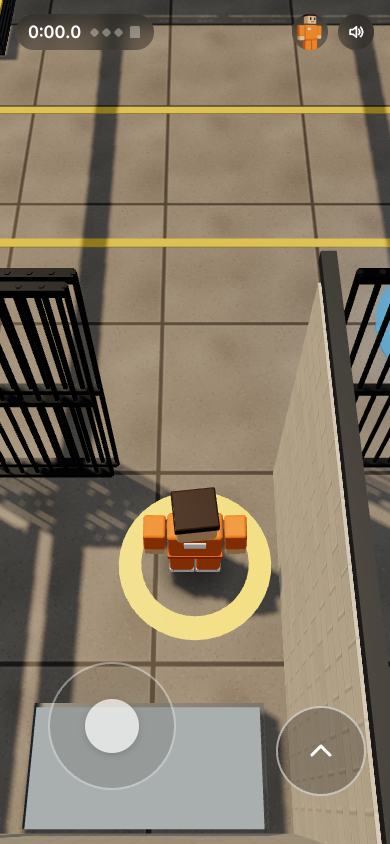
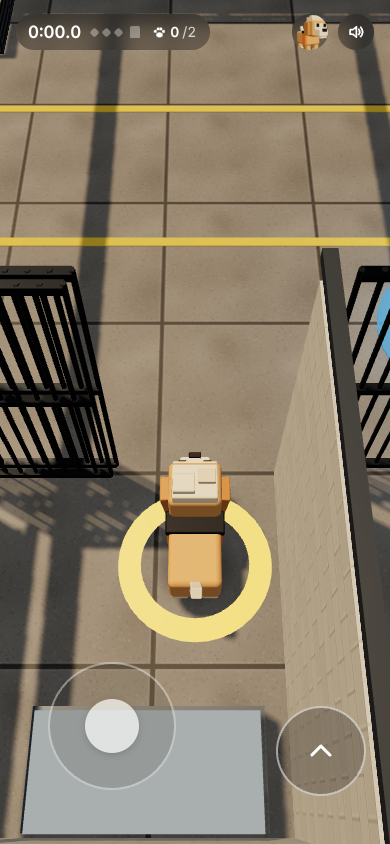
Escape 3D WIP: 7차 기록(CREDITS·PLAYBOOK·plans), 로봇 중간 스크린샷
Claude-Session: https://claude.ai/code/session_01GVpU8hg1nF2k9MWT42USP7

diff --git a/PLAYBOOK.md b/PLAYBOOK.md
@@ -74,6 +74,7 @@
 - **디자인 스킬**: 리포에 `.claude/skills/frontend-design/`(Anthropic `anthropics/skills`, Apache-2.0) 설치됨 — 새 화면을 그리기 전에 Skill 도구로 `frontend-design` 을 불러 "기본값 티" 점검(크림+테라코타, 카드 더미, 올캡 라벨, 섹션마다 페이드인 등). 갱신은 `.claude/skills/frontend-design/SOURCE.md`.
 
 ## 6. 시행착오 기록 (최신이 위, 개발 세션이 추가)
+- **2026-11-21 Escape 3D — 장치를 다 넣어도 '왜'가 없으면 "스토리가 별로, 허술"이 온다(Popcorn 11-02 와 같은 교훈을 3D 에서 반복).** 간수·버튼·문까지 레퍼런스대로 넣은 6차에 대한 반응이 그것. 고친 방식: ① 전제를 주인공이 **원하는 것**으로(잡혀 온 강아지 → 집에 가고 싶다) ② 첫 장면에 **목표를 사람으로** 보여 줌(문밖에서 전단 든 주인) ③ 기존 장치에 이유를 붙임(버튼 = 친구 케이지 열기, 간수 = 잠자리채 포획꾼) ④ 끝 장면은 전용 카메라 구도(옆에서 둘 다) — 일반 추적 카메라는 담 때문에 위로 올라가 재회가 안 보였다. 글 없이 그림만으로. 친구 따라오기는 주인공 **발자취(0.15m 간격 위치 기록)를 뒤따르게** 하면 길찾기 없이 계단·점프까지 따라온다. 클로즈업 장면에서는 가산 혼합 빛 효과(글로우·빛기둥)를 꺼야 화면이 하얗게 날아가지 않는다. `playables/escape3d/src/prison.js`(`friendCage`·`followStep`), `main.js`(`introCamera`·finish).
 - **2026-11-15 Escape 3D — 쫓아오는 적은 '구역에 가둔 순찰자'로 하면 길찾기(navmesh) 없이 된다.** 간수를 장애물 없는 직사각 구역 안에서만 움직이게 하고(좌표 clamp), 주인공이 그 구역 안에 있을 때만 보고·쫓고·잡는다 → 구역 밖(감방·계단·철조망 뒤)은 자연스럽게 '안전지대'가 되어 "간수가 멀어질 때 뛰어라"는 타이밍 놀이가 생김. 추격 속도는 주인공보다 느리게(4.6 vs 6), 시야는 앞 11m·주변 7.5m, 잡은 뒤·리스폰 때는 초소로 리셋(체크포인트 앞 진치기 방지). 로봇은 `__game.guards()` 를 읽어 '등 돌리고 멀어질 때' 출발. 카메라: 창살 같은 '보이지만 막힌' 충돌체는 주인공 이동용 seeThrough 와 카메라 차단(camBlock)을 따로 둬야 카메라가 창살 뒤로 들어가 화면을 가리지 않는다. 좁은 방에서는 카메라를 당기는 대신 **피치를 올려 내려다보게** 하면 캐릭터가 화면을 덮지 않는다. `src/guard.js`, `main.js` 의 `placeCamera`.
 - **2026-11-14 Race Finder — 남의 공개 API 로 웹 시제품을 만들 땐 CORS 부터 본다.** RunSignup `Rest/races` 는 인증 없이 200 이지만 `Access-Control-Allow-Origin` 이 없고 JSONP 도 없어 Pages 페이지에서 못 부른다(네이티브 앱은 무관). 또 인증 없는 호출은 한 질의 1,000개까지(2페이지부터 거절), `sort=date ASC` 로 받으면 1년짜리 가상 대회가 앞을 다 차지한다. 해결: 컨테이너에서 주(state)×기간으로 나눠 한 번 받아 걸러서(가상·기간 밖 종목 제외) 위·경도 2° 조각 JSON 으로 Pages 에 올리고 화면에 받은 날짜를 표기. 확인 순서는 `curl -D - -H 'Origin: …'` 로 헤더 → 2페이지 → 필터. 막힌 주소는 환경에 허용 호스트를 추가하면 수 초 안에 열린다(`create_environment`+network_only). 로봇은 '보이는 대회 상세를 전부 열어 보기'(191개)로 실제 데이터의 이상한 값을 훑는다. **로봇을 배포 주소로도 한 번 돌릴 것**(환경에 `soulfulfillable.github.io` 허용, `chromium.launch({proxy:{server:HTTPS_PROXY}})`+`ignoreHTTPSErrors`) — 로컬에선 너무 빨라 안 보이던 '받는 동안 잘못된 화면이 비침'이 거기서 잡혔다. **사파리 엔진으로도 돌릴 수 있다**: 환경에 `cdn.playwright.dev` 허용 → `PLAYWRIGHT_BROWSERS_PATH=/opt/pw-browsers node /opt/node-tools/node_modules/playwright/cli.js install webkit` + `install-deps webkit` → `webkit.launch()` + `devices['iPhone 13']`(같은 버전의 webkit 만 추가하는 것이라 기존 크롬은 그대로). 단 리눅스용 WebKit 이지 iOS 사파리는 아니다(위치 허용 창·인앱 브라우저 시트·달력 파일 처리·SF 글꼴은 못 본다). 스크린샷은 꼭 눈으로 본다 — 오류 문구가 `.state p` 에 밀려 회색으로 나온 건 로봇이 아니라 눈이 잡았다. **아이폰 웹에서 '달력에 추가'는 `data:` 주소·`download` 속성으로는 안 열린다**(실제 폰에서 확인, 헤드리스 두 엔진은 통과시켰다) — https 로 내려주는 실제 `.ics` 파일로 가는 평범한 링크를 쓴다(Pages 는 `text/calendar` 로 내려준다). 그리고 결과를 확인할 수 없는 동작에 "ready/완료" 같은 안내를 띄우지 않는다. 화면 숫자는 원본 API 와 한 건이라도 직접 대조한다(밤 11:59 마감을 '내일 오른다'로 쓴 문구 오류를 그렇게 찾음).
 - **2026-11-11 Escape 3D — 레퍼런스의 '형식'을 먼저 확인할 것.** 3D 탈출 시험판을 일직선 장애물 코스로 4번(콘크리트→오비→뉴욕 옥상) 다듬었는데 사용자: "길을 저렇게 가는 게 이상하다, 한 공간에서 움직이며 길 찾기, 판 깨기가 아니라". 겉모습(캐릭터·배경)만 고치고 **레벨 구조(선형 vs 탐험형)·카메라(고정 vs 회전)** 를 레퍼런스와 맞춰 보지 않았다. 새 장르 시험판은 첫 화면 전에 레퍼런스의 ① 공간 구조 ② 카메라 ③ 목표 제시 방식을 한 줄씩 적고 시작한다(레퍼런스 사이트가 막히면 검색 결과로라도). 탐험형 3D 에서 배운 것: 목표는 '보이지만 막힌' 정문 + 하늘로 솟은 빛기둥, 계단은 0.55 m 자동 턱 오르기, 겹치는 바닥 상자가 구덩이를 덮는 버그는 로봇이 '물에 걸어 들어가기' 테스트로 잡음. `playables/escape3d/src/prison.js`.

diff --git a/plans/escape-3d-trial.md b/plans/escape-3d-trial.md
@@ -33,3 +33,4 @@ Playables 큐: Kitty Sudoku(라이브) → **Cozy Coloring(진행 중)** → **3
 - **2026-11-11 5차** — "일직선 코스가 이상하다, 한 공간에서 길 찾기" → `src/prison.js` 한 공간 감옥(홀·통로·세탁실·운동장, 체크포인트 4). 카메라 자유 회전(끌기/Q·E) + 달리면 자동으로 등 뒤. 0.55 m 이하 턱은 걸어서 오름(계단). 카메라 벽 충돌은 충돌 상자 슬랩 레이 검사. 로봇이 '운동장 바닥이 배수로 북쪽 끝을 덮어 팔레트 없이 건너지는' 버그를 잡음.
 - **2026-11-15 6차** — 레퍼런스(Playgama 감옥 탈출 오비 상위작 영상) 확인 후: 순찰·추격 간수 2명(`guard.js`, 장애물 없는 직사각 구역에 가둬 길찾기 불필요), 초록 버튼→창살문/정문, 죄수 캐릭터 기본, 감방에서 시작. 로봇 61/61.
 - **2026-11-21 7차 착수 후 멈춤** — 스토리 개편 A안(보호소 탈출 강아지 → 주인 재회) 캐릭터·효과음만 소스에 넣고 중단(배포는 6차 그대로). 기획 파트너가 전한 "2주 개발 중단" 사용자 확인 대기. 이어서 할 일은 `board/escape-3d.md` 이어받기.
+- **2026-11-21 7차 완성** — 스토리 A안: 포획꾼에게 잡혀 온 강아지가 보호소(DOG POUND)를 탈출해 주인에게. 인트로(전단 든 주인 → 담 넘어 → 케이지 속 강아지), 버튼 2개 = 친구(토끼·고양이/강아지) 케이지 + 문, 친구는 발자취를 따라옴, 포획꾼(잠자리채)·잡힐 때 그물 연출, 전기 울타리, 문밖 세상(잔디·나무·집), 재회 엔딩(하트). 캐릭터는 Pup·Kitty. 사용자 결정(11-21)대로 이후 2주 중단.

diff --git a/playables/escape3d/CREDITS.md b/playables/escape3d/CREDITS.md
@@ -5,7 +5,7 @@ credited anyway). No company names, no personal names.
 
 ## Characters — made by us in code (since 2026-11-10, block "obby" style)
 
-Inmate (the default), Pup (after the developer's own dog), Kitty (after their orange cat) and the guards are built from rounded
+Pup (the default, after the developer's own dog), Kitty (after their orange cat), the bunny friend, the dog catchers and the owner are built from rounded
 boxes in `src/blocky.js` and animated in code (rigid limb swings). No model files are shipped.
 Earlier trial builds used Kenney Mini Characters and Quaternius cartoon animals (both CC0); those files remain in
 `assets/` for reference only and are not deployed.
@@ -25,6 +25,9 @@ archive's License.txt "Creative Commons Zero, CC0"). Re-encoded to mono OGG (q4)
 | `respawn` | `revive.ogg` | back at the checkpoint |
 | `door` | `confirm.ogg` | exit door starts opening |
 | `exit` | `level_up.ogg` | escaped |
+| `alert` | `boss.ogg` | the catcher notices you |
+| `caught` | `downed.ogg` | netted |
+| `friend` | `coin.ogg` | a friend is freed |
 
 ## Made by us (code)
 
